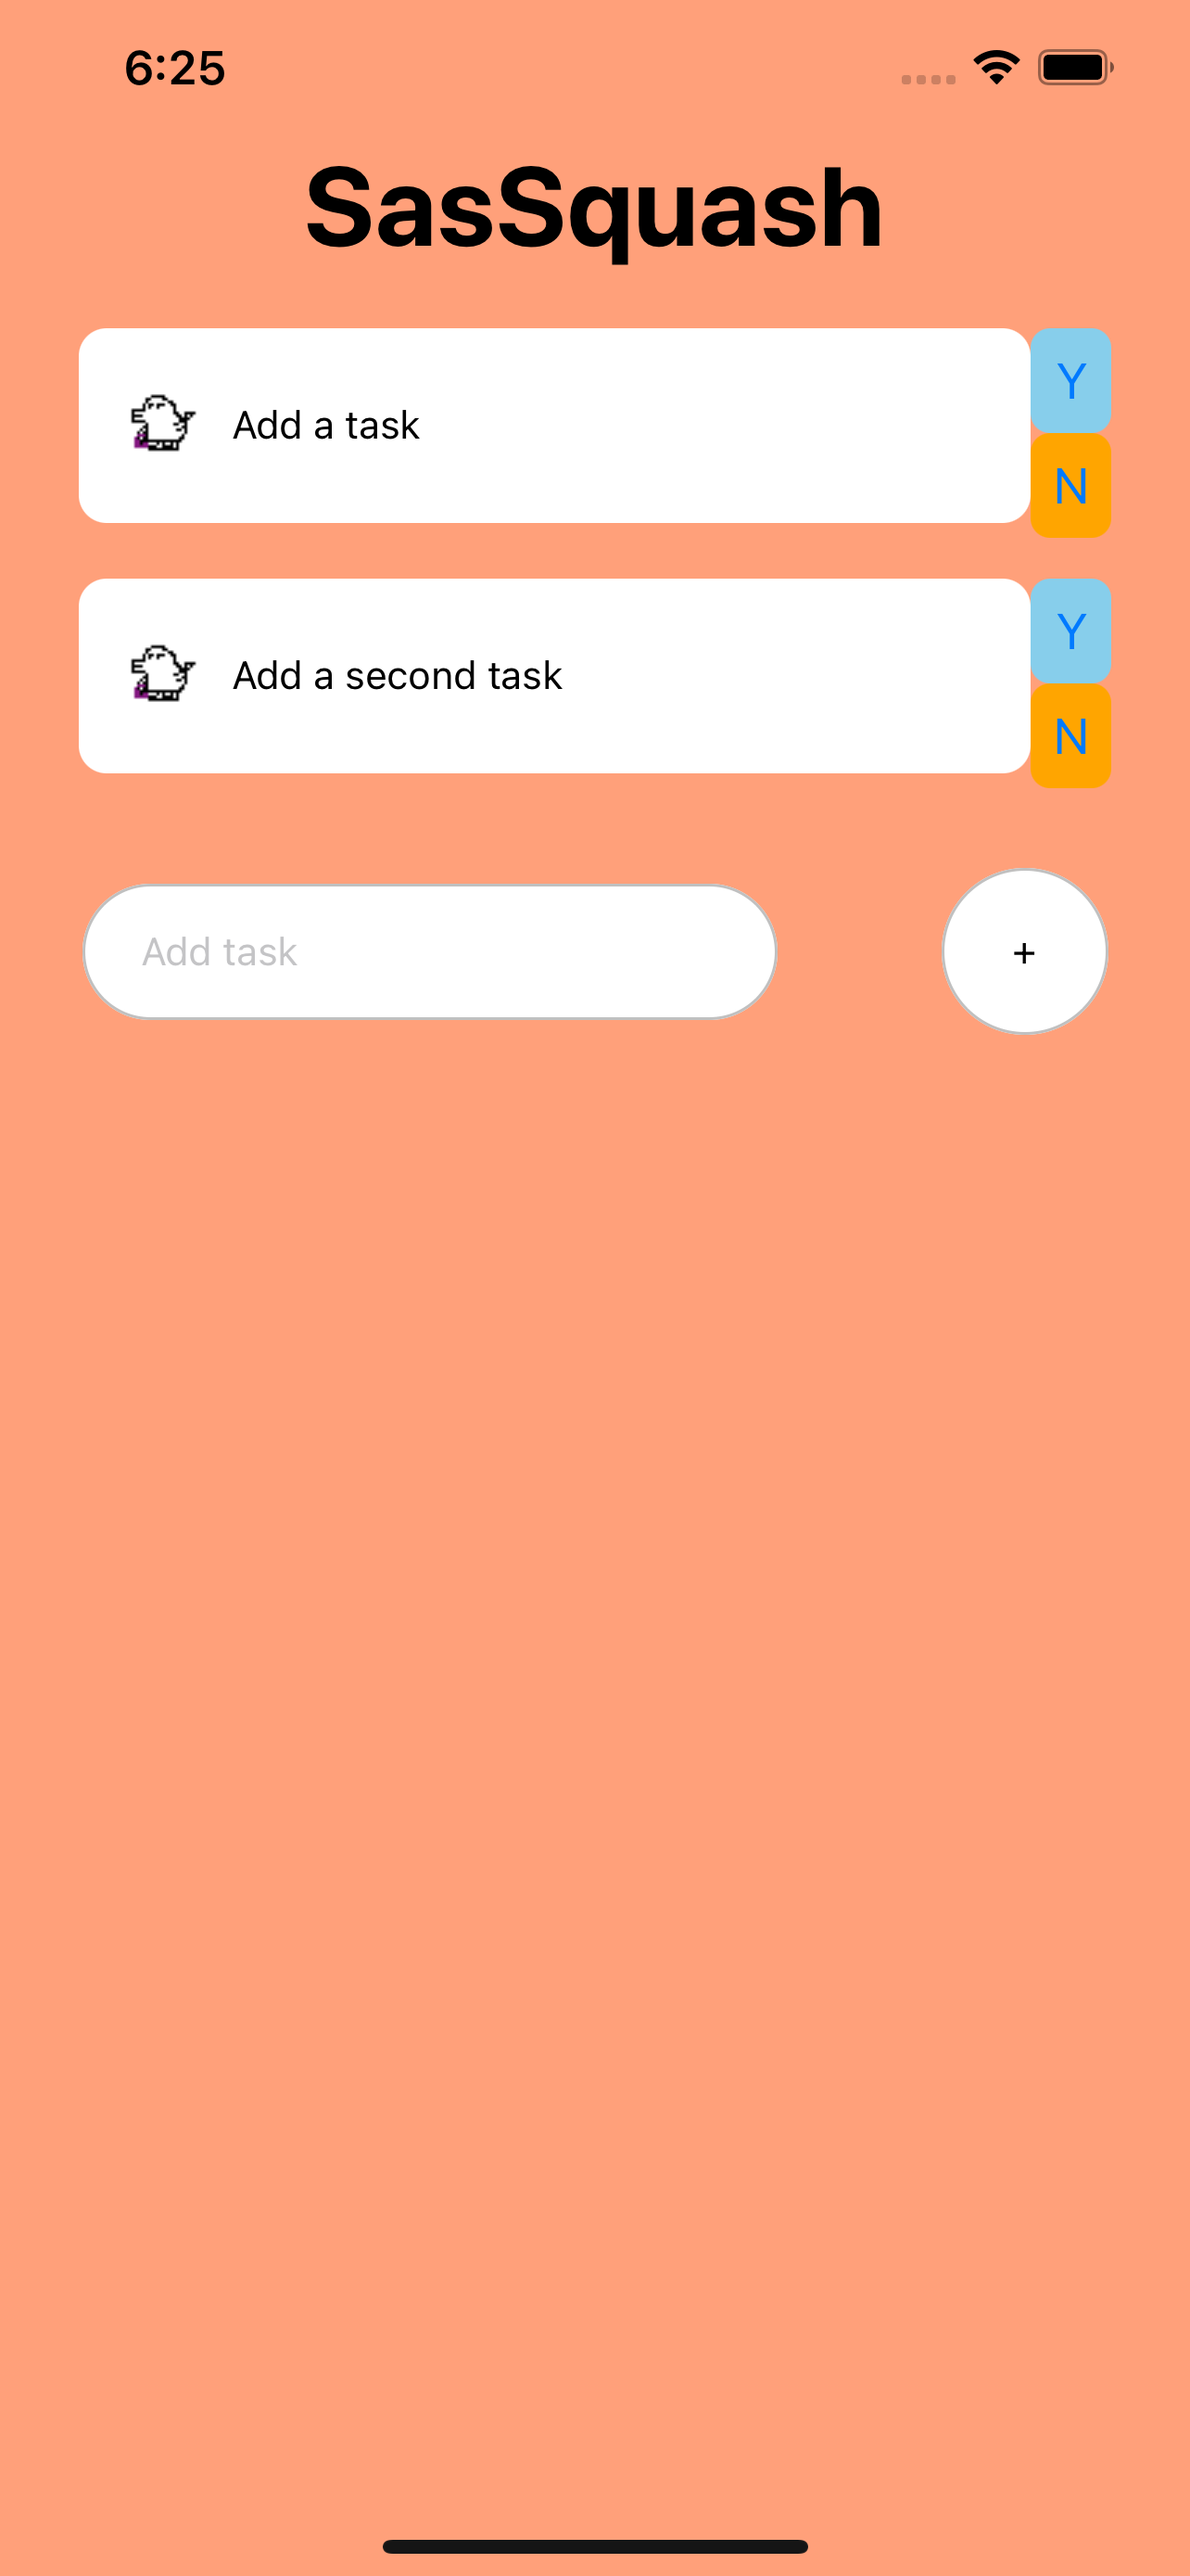
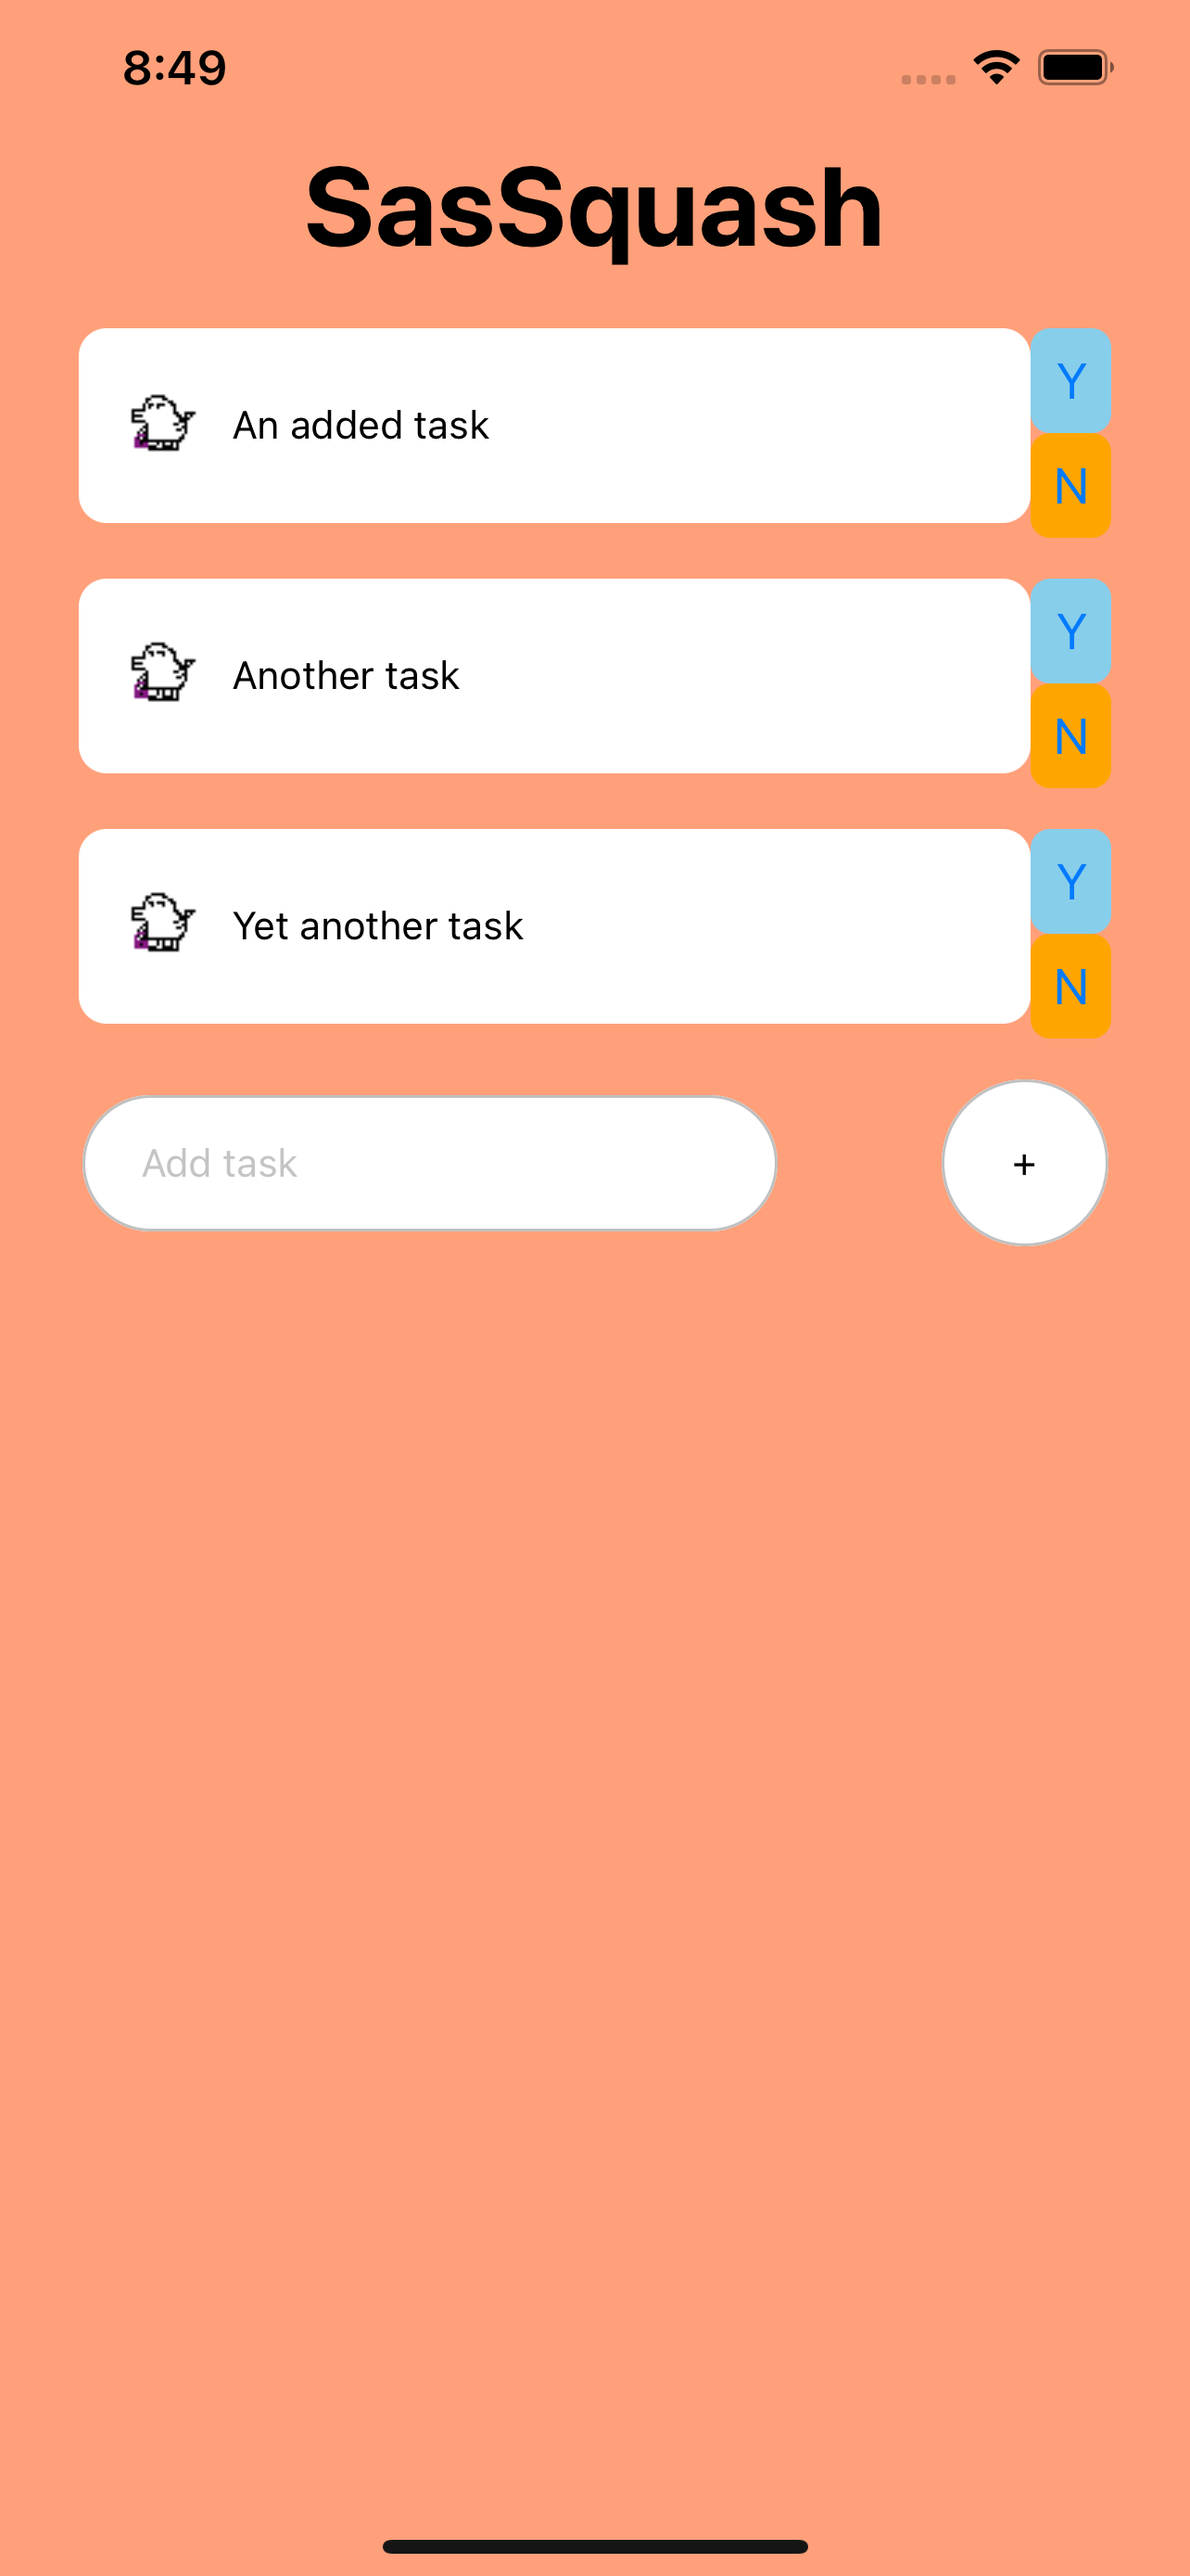
Add new features implemented

diff --git a/README.md b/README.md
@@ -180,27 +180,31 @@ Currently all tests are passing with 100% Coverage.
 Here is a list of the currently implemented features on SassTask:
 
 * You can add tasks
-<img src="assets/Main_screen.png" height='500'>
+<img src="assets/Mainpage-empty.png" height='500'> <text> ---> </text>< img src="assets/Task_added.png" height='500'>
 
 * You can see a list of tasks
-<img src="assets/TaskList.png" height='500'>
+<img src="assets/Task_added.png" height='500'> <text> ---> </text>< img src="assets/TaskList.png" height='500'>
 
 * You can complete tasks
-<img src="assets/CompleteTask.png" height='500'>
+<img src="assets/Task_added.png" height='500'> <text> ---> </text> <img src="assets/Mainpage-empty.png" height='500'> <text> ---> </text> <img src="assets/Complete_task.png" height='500'>
 
 * You can mark tasks as incomplete
-<img src="assets/IncompleteTask.png" height='500'>
+<img src="assets/Task_added.png" height='500'> <text> ---> </text> <img src="assets/Mainpage-empty.png" height='500'> <text> ---> </text> <img src="assets/failed_task.png" height='500'>
 
 * You can delete tasks
+<img src="assets/Task_added.png" height='500'> <text> ---> </text> <img src="assets/Mainpage-empty.png" height='500'> <text> ---> </text> <img src="assets/deleted_task.png" height='500'>
 
 * Your monster will provide feedback when you complete tasks
+<img src="assets/Task_added.png" height='500'> <text> ---> </text> <img src="assets/Mainpage-empty.png" height='500'> <text> ---> </text> <img src="assets/Complete_task.png" height='500'>
 
 * Your monster will provide feedback when you do not complete tasks
+<img src="assets/Task_added.png" height='500'> <text> ---> </text> <img src="assets/Mainpage-empty.png" height='500'> <text> ---> </text> <img src="assets/failed_task.png" height='500'>
 
-## Features to be implemented
 * Your monster will die if you do not complete enough tasks
 
 * Your monster will ascend if you complete enough tasks
+
+## Features to be implemented
 
 * You can get a new monster when your monster dies/moves on
 
